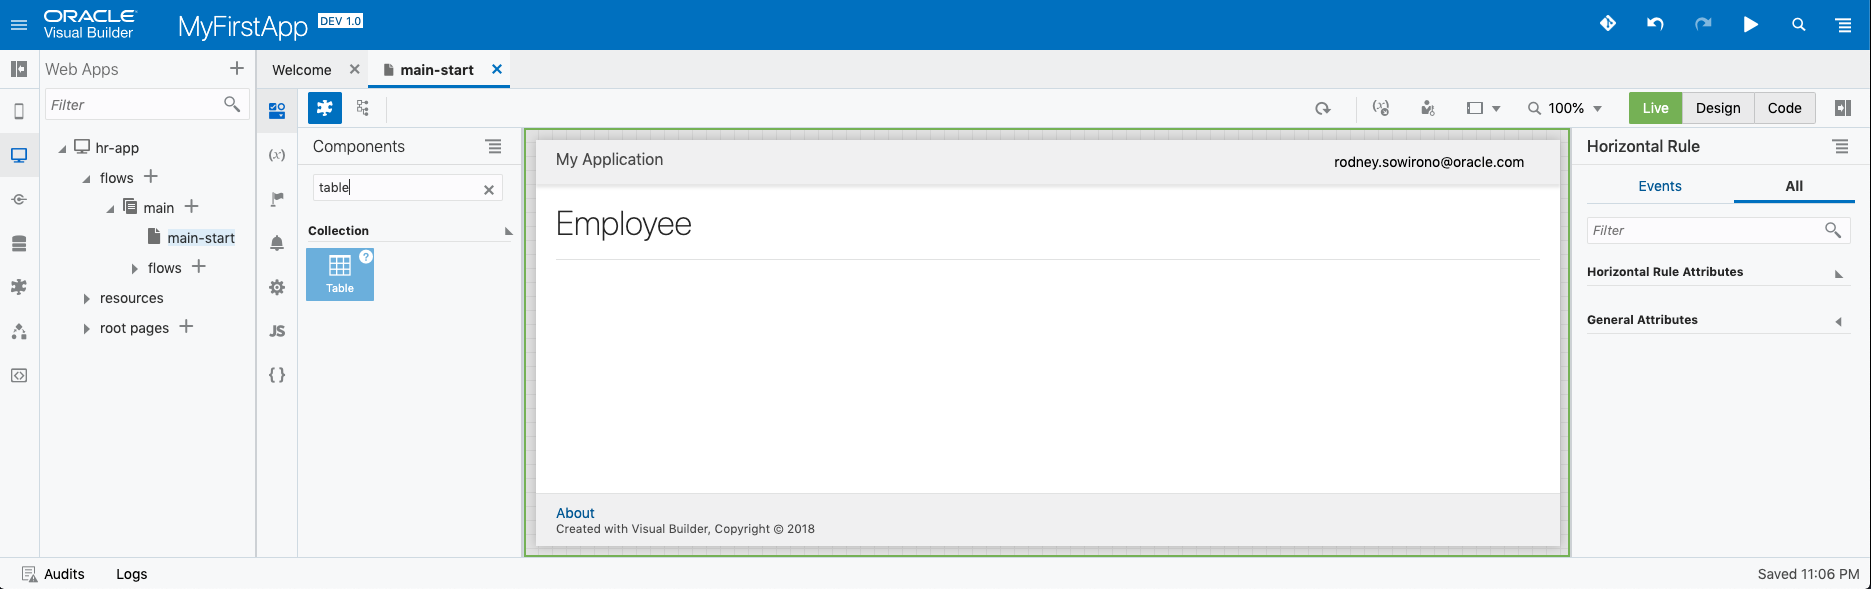
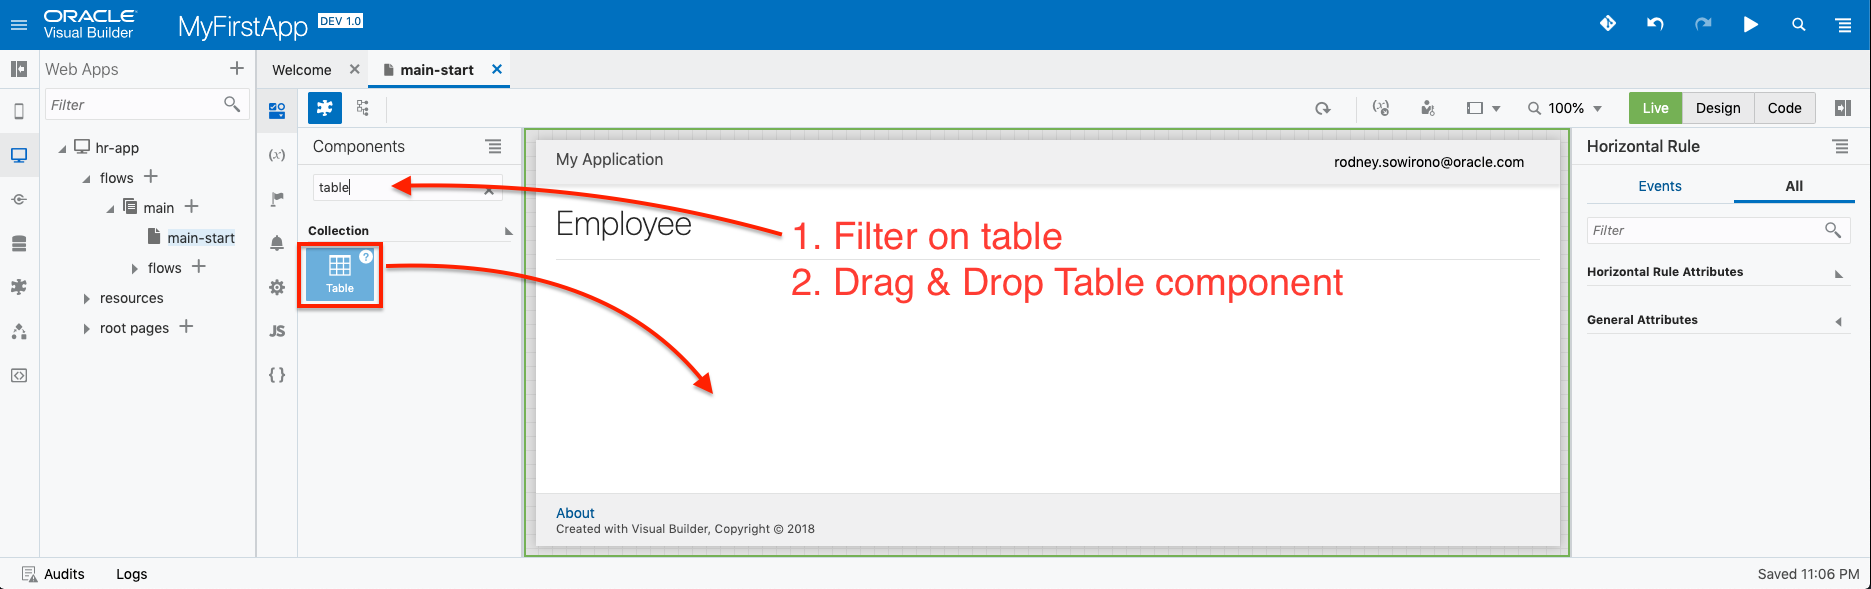
updated

diff --git a/WebApp/PART_2.md b/WebApp/PART_2.md
@@ -14,16 +14,15 @@ In this part of the lab you will be creating a UI front end and bind the data fr
 
 ![alt text](../resources/images/ui/31-new.png)
 
+> Now select and drag and drop the header component from the component palette to your application build screen
+
 ![alt text](../resources/images/ui/32-new.png)
 
 ![alt text](../resources/images/ui/33-new.png)
 
+![alt text](../resources/images/ui/34-new.png)
 #### 2. Adding seperator line
 > What we will start with is to place a header and a seperator line onto the main application page.
-
-
-
-![alt text](../resources/images/ui/34-new.png)
 
 ![alt text](../resources/images/ui/35-new.png)
 
